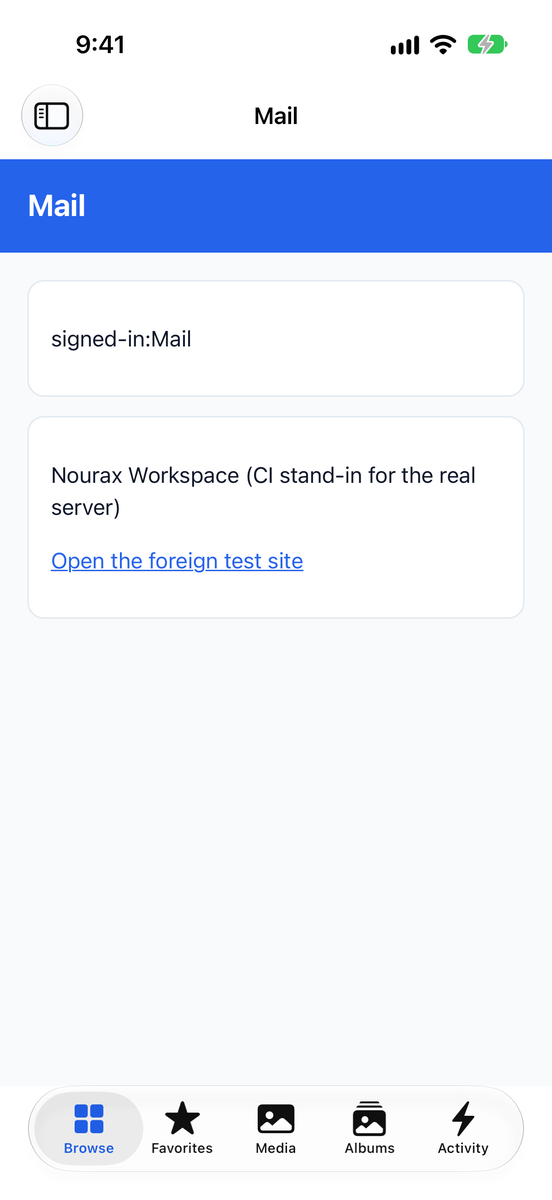
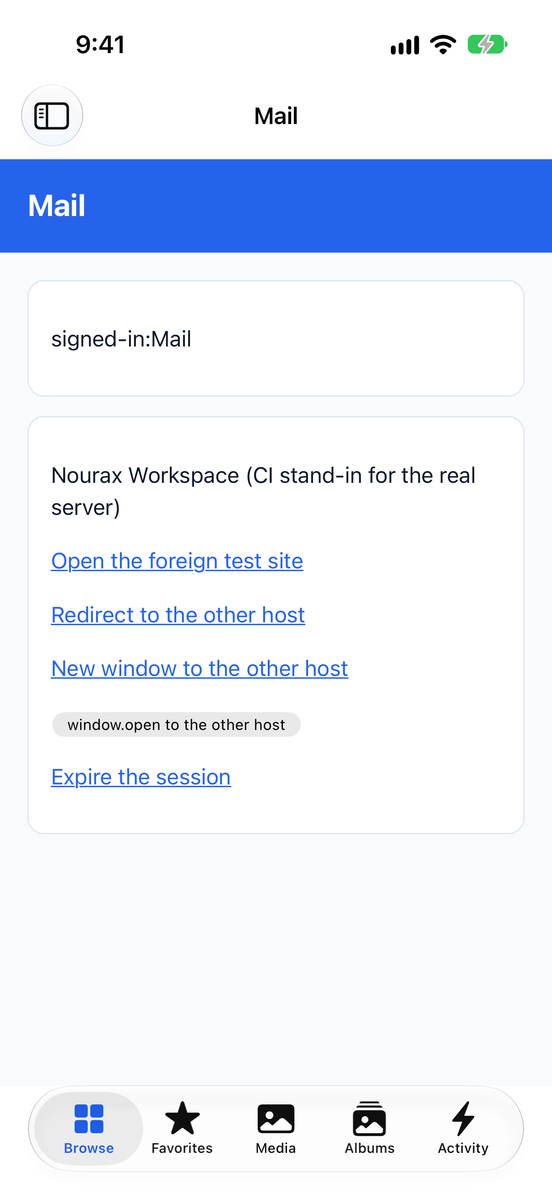
docs(ios): Workspace apps fixes: testing rows, owner rows, screenshots
Rows for NoMail in a browser panel, Activity and Photos left out, the Apps
section filling in by itself, session renewal, notification links and account
removal; screenshots from run 40470638063.

Changed region(s): [[0.0924, 0.555, 0.6159, 0.6783], [0.0924, 0.4933, 0.5543, 0.5242]]

diff --git a/docs/testing.md b/docs/testing.md
@@ -9,8 +9,10 @@ the Drive's login pages only open from the owner's home network, and CI must nev
 `drive.nourax.org` (a local stand-in answers for it). Everything after sign-in is an **owner test**
 on the owner's Mac (simulator) or iPhone.
 
-Workspace apps (feature `feature/workspace-apps`): run [40399328940](https://github.com/NouraX-ORG/nodrive-ios/actions/runs/40399328940), commit `0585f7e0f7`, all 4 jobs green
-(Branding gate, Build and unit tests, Server login, Simulator screens); on `main` after the merge the same checks run again.
+Workspace apps (feature `feature/workspace-apps`, then the fixes round `feature/workspace-apps-fixes`): run [40470638063](https://github.com/NouraX-ORG/nodrive-ios/actions/runs/40470638063), commit `5c6c9f8597`, all 4 jobs green
+(Branding gate, Build and unit tests, Server login, Simulator screens). The merge to `main` adds only documents on top of
+that commit; the same checks run again on the merge commit and on `main`. The first round ran as
+[40399328940](https://github.com/NouraX-ORG/nodrive-ios/actions/runs/40399328940) (commit `0585f7e0f7`).
 
 Reference run: **[40206804804](https://github.com/NouraX-ORG/nodrive-ios/actions/runs/40206804804)**
 on `main` (commit `b03563c3c9`), all 3 jobs green. Xcode 27.1 (build 27A9275), runner image
@@ -25,7 +27,7 @@ on `main` (commit `b03563c3c9`), all 3 jobs green. Xcode 27.1 (build 27A9275), r
 | No unclassified Nextcloud name, link, id or colour in the source | CI | pass | `check-branding: 483 hits: 264 internal, 217 legal, 2 artwork, 0 unclassified` |
 | App, 8 extensions and test bundles build for the simulator, unsigned | CI | pass | job "Build and unit tests", `xcodebuild build-for-testing … CODE_SIGNING_ALLOWED=NO` succeeded; 0 Thread Sanitizer objects |
 | Bundle ids, display names, URL scheme, app group and keychain group of the built app and every extension | CI | pass | `tools/ci/inspect-products.py`: `org.nourax.nodrive` + 8 extension ids, display names NoDrive / NoDrive Assistant, scheme `nodrive`, `group.org.nourax.nodrive` in every entitlements section |
-| Unit tests (upstream + NoDrive) | CI | pass | `Test run with 145 tests in 17 suites passed`; result `Passed`, 145/145, 0 failed, 0 skipped |
+| Unit tests (upstream + NoDrive) | CI | pass | run [40470638063](https://github.com/NouraX-ORG/nodrive-ios/actions/runs/40470638063) (Workspace apps head): `Test run with 204 tests in 22 suites passed`; result `Passed`, 204/204, 0 failed, 0 skipped (the reference run below had 145 before the Workspace tests) |
 | NoDrive branding unit tests (name, ids and app group, URL schemes, fixed server, version `35.2.1-nourax.1`, user agent matches server 35, Nextcloud services off, privacy link hidden, cobalt colour) | CI | pass | Suite "NoDrive branding": 9 of 9 passed |
 | Built app sweep (`check-branding.py --app`) | CI | report only | 833 hits, all classified by hand in [branding-sweep.md](branding-sweep.md); becoming a gate is a follow-up |
 | Launches (install with `simctl`, start, keeps running) | CI | pass | job "Simulator screens", step "simctl install, launch and screenshots" |
@@ -39,14 +41,20 @@ on `main` (commit `b03563c3c9`), all 3 jobs green. Xcode 27.1 (build 27A9275), r
 | Right-to-left language (Arabic) | CI | pass (before sign-in) | `ar-light/` screenshots. Arabic is not a shipped app language (same as upstream), so NoDrive's own texts are English while the system UI is Arabic |
 | No calls to Nextcloud services | CI | pass | `network-gate: 565 DNS queries for 157 names; forbidden 0`, `network-gate: ok`; no DNS query by a NoDrive process |
 | Launch screen (cobalt, Nourax logo) | CI | not captured | The recording showed black, then the intro; the storyboard colour and image are checked by `rebrand.py --check`. Owner: look at it on the Mac |
-| Workspace apps: the side menu lists the server's apps (Dashboard, Mail, Calendar, Talk, Contacts), in server order, without Files | CI | pass (stand-in) | run [40399328940](https://github.com/NouraX-ORG/nodrive-ios/actions/runs/40399328940) (`feature/workspace-apps`, commit `0585f7e0f7`), job "Simulator screens": `walk.jsonl` `names: [Dashboard, Mail, Calendar, Talk, Contacts]`; screenshot `workspace-light/02-workspace-menu` |
-| Tapping an app opens it inside NoDrive, already signed in, no sign-in page | CI | pass (stand-in) | `NoDriveWorkspaceUITests` passed 1/1 (light and dark): page text `signed-in:Mail`, the sign-in page never shown; the page request carried the 4 session cookies and no `Authorization` header (`stand-in.jsonl`); screenshot `workspace-light/03-workspace-page` |
-| The password goes only to the account's own server, only on the app's own requests | CI | pass | `workspace-check.py`: `ok`, 0 problems; credentialed paths are all `/ocs/`, `/remote.php/`, `/index.php/avatar`; the other host got 2 requests, no cookie, no credential |
-| A link to another host leaves NoDrive's web view (system browser panel, no session) | CI | pass (stand-in) | UI test: clicked foreign link opens the panel (`04-foreign-link-panel`); the panel's request carried no cookies |
-| Origin rules (user info, look-alike hosts, http, other port, trailing dot, IDN, `javascript:`, `data:`, `file:` ...) and notification-link routes | CI | pass | unit suite "NoDrive Workspace origin rules" (part of `Test run with 173 tests in 21 suites passed`) |
-| Apps list cache, ETag/304, session hand-off, redirect refusal, web-data clearing on removal | CI | pass | unit suites "NoDrive Workspace apps", "... session", "... web" (same 173 tests) |
-| Web-view sign-in on a real Nextcloud server 35.0.2 (throwaway, in Docker): both app-password kinds | CI | pass | job "Server login", `report.md`: all checks passed; cookies alone sign the page in, 304 on the apps list, a web log-out keeps the app signed in, revoking the app password ends the web session after 12 s |
+| Workspace apps: the side menu lists the server's apps in server order (Dashboard, Mail, NoMail, Calendar, Talk, Contacts), without Files, Activity and Photos | CI | pass (stand-in) | run [40470638063](https://github.com/NouraX-ORG/nodrive-ios/actions/runs/40470638063), job "Simulator screens": `walk.jsonl` `sidebar-apps {"names": ["Dashboard","Mail","NoMail","Calendar","Talk","Contacts"]}`; the stand-in's list also contains Files, Activity and Photos; the UI test asserts none of the three is shown; unit test `hiddenApps` (checks `id` and `app`); screenshot `workspace-light/02-workspace-menu` |
+| The Apps section fills in by itself after sign-in, without closing and reopening the menu | CI | pass (stand-in) | `walk.jsonl` `sidebar-open {"apps_listed_at_open": false}` then `sidebar-apps`, with no second open in between; `stand-in.jsonl`: the list was answered after the sidebar was open (the stand-in delays it by 6 s); 8 unit tests in "NoDrive Workspace menu" (late list, changed list, 404, other account, account switch, restored launch, sign-in again, joined reads, retries after 5, 20 and 60 s) |
+| NoMail appears in the Apps menu and opens in a browser panel, not signed in to NoDrive | CI | pass (stand-in) | UI test1 step 5: the panel shows "NoMail stand-in" and the Workspace page stays behind it; `stand-in.jsonl` `foreign-nomail`: `has_authorization: false`, `cookie_names: []` (light and dark); unit tests `outsideEntries`, `otherOutsideEntry`, `unsafeOutsideEntries` (20 bad links dropped), `outsideEntryOpensThePanel`; screenshot `workspace-light/06-nomail-panel` |
+| Tapping an app opens it inside NoDrive, already signed in, no sign-in page | CI | pass (stand-in) | `NoDriveWorkspaceUITests` passed 4/4 in light and 4/4 in dark (`ui-workspace-*-summary.json`): page text `signed-in:Mail`, the sign-in page never shown; the page request carried the session cookies and no `Authorization` header (`stand-in.jsonl`); screenshot `workspace-light/03-workspace-page` |
+| The signed-in session is renewed by itself when it ends, and a second launch of the app is signed in again | CI | pass (stand-in) | UI test "Expire the session": `walk.jsonl` `session-renewed {"shown": true}`, no login page; `workspace-check.py` check (g) `sessions_expired: 2`, check (f) `app_launches: 10`, each page served with a session issued after its own launch; screenshots `11-session-renewed`, `12-second-launch-page` |
+| The password goes only to the account's own server, only on the app's own requests | CI | pass | `workspace-check.json`: `ok: true`, `problems: []`; credentialed paths are all `/ocs/`, `/remote.php/`, `/index.php/avatar`; 10 requests reached the other host, none with a cookie or credential; `--scan-secret` finds the throwaway password nowhere |
+| A link to another host leaves NoDrive's web view (system browser panel, no session): plain link, redirect to another host, `target=_blank`, `window.open` | CI | pass (stand-in) | UI test1 step 4 and test2; `stand-in.jsonl` `foreign-probe`, `foreign-redirect`, `foreign-blank`, `foreign-window-open`: all `has_authorization: false`, `cookie_names: []`; unit tests `newWindows` and the `createWebViewWith` decisions; screenshots `04-foreign-link-panel`, `10-*-panel` |
+| A notification link that points to the account's own server opens inside NoDrive, signed in | CI | pass (stand-in) | UI test4 taps "Open mail" in the notification list: page `signed-in:Mail`, no Safari, Close returns to the list; unit test `notificationLinkOpensInApp`; screenshots `13-notifications`, `14-notification-page` |
+| Removing the account closes every open Workspace screen, clears its web data and the saved apps list | CI | pass (unit) | unit tests `forgetClosesTheScreenAndClearsItsStore` (own non-persistent store, cookie gone, web view removed, no sign-in or load afterwards), `forgetClosesAllScreensOfTheAccountOnly`, `screensDoNotShareStores`, `forgetRemovesTheAppList`. No test runs the real "leave the main view" step yet (it is an owner row) |
+| Origin rules (user info, look-alike hosts, http, other port, trailing dot, IDN, `javascript:`, `data:`, `file:` ...) and notification-link routes | CI | pass | unit suite "NoDrive Workspace origin rules" (part of `Test run with 204 tests in 22 suites passed`, run [40470638063](https://github.com/NouraX-ORG/nodrive-ios/actions/runs/40470638063)) |
+| Apps list cache, ETag/304, retries, session hand-off, redirect refusal, cookie flags (Secure over https), web-data clearing on removal | CI | pass | unit suites "NoDrive Workspace apps", "... menu", "... session", "... web" (same 204 tests) |
+| Web-view sign-in on a real Nextcloud server 35.0.2 (throwaway, in Docker): both app-password kinds | CI | pass | job "Server login", `report.md`: all checks passed (including `?nodrive=ws` accepted by server 35); cookies alone sign the page in, 304 on the apps list, a web log-out keeps the app signed in, revoking the app password ends the web session after 12 s |
 | The test account used by the UI test cannot exist in a Release build | CI | pass | `workspace-check.py --debug-only` in the Branding gate; `NCUITestAccount.swift` is inside `#if DEBUG` |
+| No Nextcloud text, link or colour in the Workspace screens or code | CI | pass | `check-branding.py`: 0 unclassified; screenshots of the Apps menu and the pages looked at: none; no new strings (names come from the server) |
 | Sign in with "Log in with Nourax" on the real drive.nourax.org | owner | pending | Mac simulator at home (WAF) |
 | File list after sign-in | owner | pending | |
 | Upload, download, rename, move, delete | owner | pending | |
@@ -60,12 +68,14 @@ on `main` (commit `b03563c3c9`), all 3 jobs green. Xcode 27.1 (build 27A9275), r
 | Settings: footer "NoDrive 35.2.1-nourax.1" and "Nourax Workspace <version>"; no privacy or source-code link | owner | pending | |
 | Settings → Information → Acknowledgements: text only, no logos, no nextcloud.com links | owner | pending | |
 | Sign out | owner | pending | |
-| Workspace apps: the side menu shows an "Apps" section with the apps your Nourax account has (Mail, Calendar, Talk ...), no "Files" entry | owner | pending | iPhone or Mac simulator, signed in at home. Names and order come from the server |
+| Workspace apps: the side menu shows an "Apps" section with the apps your Nourax account has (Mail, Calendar, Talk ...), with no "Files", no "Activity" and no "Photos" entry | owner | pending | iPhone or Mac simulator, signed in at home. Names and order come from the server |
+| The Apps section fills in by itself a few seconds after you sign in, without closing and reopening the menu | owner | pending | sign in, open the menu at once, wait; also after removing the account and signing in again |
+| NoMail appears in the Apps menu and opens in a browser panel, not signed in to NoDrive | owner | pending | tap NoMail: a Safari panel opens and you may be asked to sign in to NoMail there; close it and you are back in NoDrive |
 | Tapping an app opens it inside NoDrive, already signed in, with no sign-in page at any point | owner | pending | try Mail, then Talk |
 | Back: the back arrow goes back inside the page; the sidebar button returns to the files | owner | pending | |
 | A link inside an app that points to another website opens in a separate browser panel, not inside the app page | owner | pending | e.g. a link in a mail |
 | A notification link (a "view" button in the notification list) that points to drive.nourax.org opens inside NoDrive, already signed in | owner | pending | |
-| Sign out (remove the account), then sign in again: the in-app pages are signed out too; after signing in again an app opens signed in | owner | pending | after removal, no app page may show your data |
+| Sign out (remove the account), then sign in again: any open app page closes at once; after signing in again an app opens signed in | owner | pending | after removal, no app page may show your data. Try it with an app page open, and once with an app opened from a notification |
 | Dark mode and German after sign-in | owner | pending | |
 | Device name under Settings → Security on drive.nourax.org | owner | pending | read it back for the Workspace session |
 | Sync works away from home (mobile data), after one sign-in at home | owner | pending | iPhone only |
@@ -110,17 +120,21 @@ Details: [screenshots/ios/README.md](screenshots/ios/README.md).
 [02-launch-8s](screenshots/ios/simctl/02-launch-8s.png),
 [03-launch-later](screenshots/ios/simctl/03-launch-later.png).
 
-Workspace apps (feature `feature/workspace-apps`), from the `nodrive-ios-screenshots` artifact of run [40399328940](https://github.com/NouraX-ORG/nodrive-ios/actions/runs/40399328940)
-(commit `0585f7e0f7`, iPhone 17, iOS 27.0; the signed-in account and the Workspace pages are made by the
+Workspace apps (fixes round), from the `nodrive-ios-screenshots` artifact of run [40470638063](https://github.com/NouraX-ORG/nodrive-ios/actions/runs/40470638063)
+(commit `5c6c9f8597`, iPhone 17, iOS 27.0; the signed-in account and the Workspace pages are made by the
 CI stand-in, `docs/screenshots/ios/workspace-{light,dark}/`, 1200 px copies). Looked at for Nextcloud's name,
 logo, colours and links: none.
 
 | Screen | light | dark |
 |---|---|---|
-| Side menu with the "Apps" section | [02-workspace-menu](screenshots/ios/workspace-light/02-workspace-menu.png) | [02-workspace-menu](screenshots/ios/workspace-dark/02-workspace-menu.png) |
+| Side menu with the "Apps" section (no Files, Activity or Photos; NoMail with an envelope) | [02-workspace-menu](screenshots/ios/workspace-light/02-workspace-menu.png) | [02-workspace-menu](screenshots/ios/workspace-dark/02-workspace-menu.png) |
 | Mail page inside NoDrive, signed in (`signed-in:Mail`, stand-in page) | [03-workspace-page](screenshots/ios/workspace-light/03-workspace-page.png) | [03-workspace-page](screenshots/ios/workspace-dark/03-workspace-page.png) |
 | Link to another host: system browser panel | [04-foreign-link-panel](screenshots/ios/workspace-light/04-foreign-link-panel.png) | [04-foreign-link-panel](screenshots/ios/workspace-dark/04-foreign-link-panel.png) |
 | Back in the app page after closing the panel | [05-after-panel](screenshots/ios/workspace-light/05-after-panel.png) | [05-after-panel](screenshots/ios/workspace-dark/05-after-panel.png) |
+| NoMail: browser panel on another host, not signed in | [06-nomail-panel](screenshots/ios/workspace-light/06-nomail-panel.png) | [06-nomail-panel](screenshots/ios/workspace-dark/06-nomail-panel.png) |
+| Session ended and renewed by itself | [11-session-renewed](screenshots/ios/workspace-light/11-session-renewed.png) | [11-session-renewed](screenshots/ios/workspace-dark/11-session-renewed.png) |
+| Notification list | [13-notifications](screenshots/ios/workspace-light/13-notifications.png) | [13-notifications](screenshots/ios/workspace-dark/13-notifications.png) |
+| Notification link opened inside NoDrive, signed in | [14-notification-page](screenshots/ios/workspace-light/14-notification-page.png) | [14-notification-page](screenshots/ios/workspace-dark/14-notification-page.png) |
 
 Screens after sign-in (file list, settings, licence page, Files app, widgets) need an account and
 are owner tests.
@@ -134,8 +148,10 @@ are owner tests.
 3. Toolbar: scheme **Nextcloud**, destination **iPhone 17**. Press Run (⌘R).
 4. In the simulator: Log in → the browser opens at drive.nourax.org → "Log in with Nourax" →
    use your normal Nourax account (not the emergency admin account) → Grant access.
-5. Workspace apps: open the side menu, tap an app under "Apps" (it must open inside NoDrive, signed in,
-   with no sign-in page), go back, then remove the account and sign in again (the pages must be signed out).
+5. Workspace apps: open the side menu right after signing in and wait: the "Apps" section appears by itself
+   (no Files, Activity or Photos). Tap an app (it must open inside NoDrive, signed in, with no sign-in page),
+   go back, tap NoMail (a browser panel, not signed in to NoDrive), then remove the account while an app page
+   is open (the page must close) and sign in again (the pages must be signed out).
 6. Go through the "owner" rows above, then read back the device name shown under
    Settings → Security on drive.nourax.org.
 

diff --git a/docs/screenshots/ios/README.md b/docs/screenshots/ios/README.md
@@ -37,15 +37,19 @@ Nextcloud blue, no "Nextcloud" in any recorded screen text).
 | `simctl/03-launch-later.png` | A few seconds later: the same prompt over the intro (NoDrive is still running). |
 
 Workspace apps (`workspace-light/`, `workspace-dark/`): from run
-[40399328940](https://github.com/NouraX-ORG/nodrive-ios/actions/runs/40399328940) on `feature/workspace-apps`
-(commit `0585f7e0f7`), same device and settings. The account and the Workspace pages come from the CI stand-in.
+[40470638063](https://github.com/NouraX-ORG/nodrive-ios/actions/runs/40470638063) on `feature/workspace-apps-fixes`
+(commit `5c6c9f8597`), same device and settings. The account and the Workspace pages come from the CI stand-in.
 
 | File | Screen |
 |---|---|
-| `02-workspace-menu.png` | Side menu with the "Apps" section: Dashboard, Mail, Calendar, Talk, Contacts (no Files). |
+| `02-workspace-menu.png` | Side menu with the "Apps" section: Dashboard, Mail, NoMail, Calendar, Talk, Contacts (no Files, Activity or Photos). |
 | `03-workspace-page.png` | The Mail page open inside NoDrive, already signed in (page text `signed-in:Mail`). |
 | `04-foreign-link-panel.png` | A link to another host opens in the system browser panel, not in the app page. |
 | `05-after-panel.png` | Back in the app page after closing the panel. |
+| `06-nomail-panel.png` | NoMail opens in the browser panel on another host, not signed in to NoDrive. |
+| `11-session-renewed.png` | The Mail page after its session ended and was renewed by itself. |
+| `13-notifications.png` | The notification list with a link to the account's own server. |
+| `14-notification-page.png` | That link opened inside NoDrive, signed in. |
 
 Looked at for Nextcloud's name, logo, colours and links: none.
 
